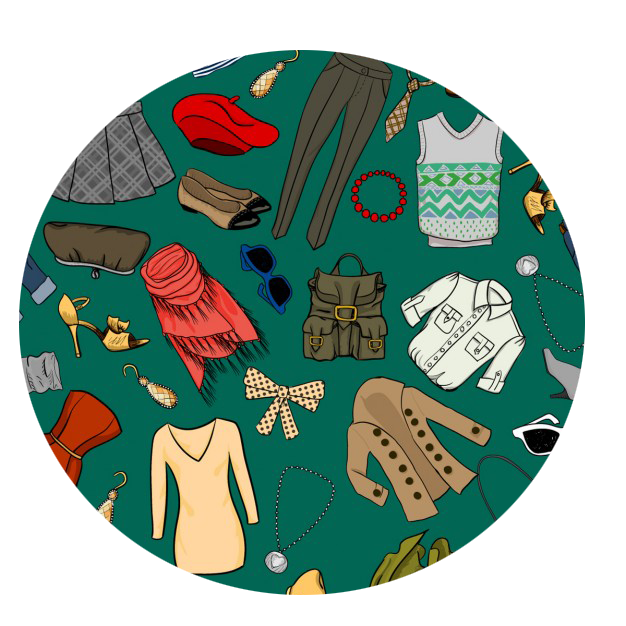
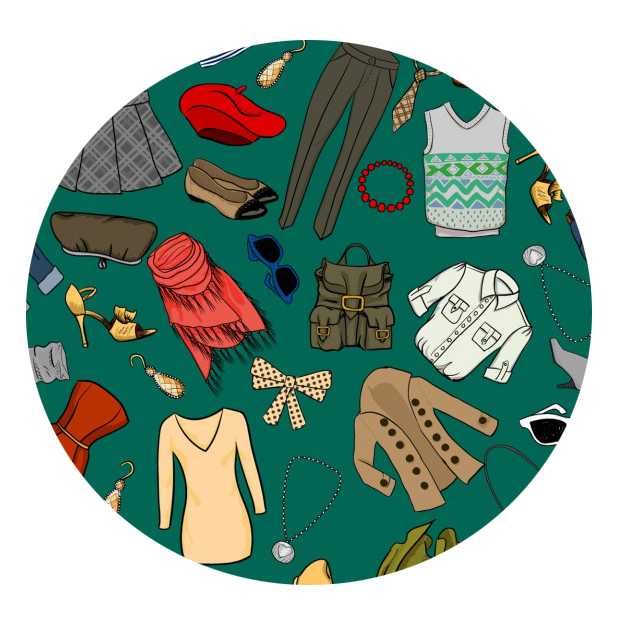
Mejora de Imagenes

diff --git a/lib/src/pages/home_page.dart b/lib/src/pages/home_page.dart
@@ -8,67 +8,71 @@ class Home extends StatelessWidget {
       body: Container(
         decoration: BoxDecoration(
             image: DecorationImage(
-                image: AssetImage("assets/inicio.jpg"), fit: BoxFit.cover)),
+                image: AssetImage("assets/inicio/home_principal.png"),
+                fit: BoxFit.fill)),
         child: Column(
-          mainAxisAlignment: MainAxisAlignment.center,
+          mainAxisAlignment: MainAxisAlignment.start,
           children: <Widget>[
-            Center(
-                child: Column(
-              mainAxisAlignment: MainAxisAlignment.center,
-              children: <Widget>[
-                Text(
-                  "¿ MBA'E ?",
-                  style: TextStyle(
-                    fontSize: 50.0,
-                    fontFamily: "HeyAugust",
-                    color: Colors.redAccent,
-                  ),
-                ),
-                Padding(padding: EdgeInsets.all(35.0)),
-                Row(
-                  mainAxisAlignment: MainAxisAlignment.center,
-                  //crossAxisAlignment: CrossAxisAlignment.start,
-                  children: <Widget>[
-                    //Boton de Jugar
-                    RaisedButton(
+            Padding(
+              padding: const EdgeInsets.all(75.0),
+              child: Center(
+                  child: Column(
+                children: <Widget>[
+                  Text(
+                    "¿ MBA'E ?",
+                    style: TextStyle(
+                      fontSize: 50.0,
+                      fontFamily: "HeyAugust",
                       color: Colors.redAccent,
-                      textColor: Colors.white,
-                      child: Text(
-                        "Jugar",
-                        style: TextStyle(
-                          fontSize: 25.0,
-                          fontFamily: "HeyAugust",
-                        ),
-                      ),
-                      onPressed: () {
-                        print("Boton de Jugar Presionado");
-                        Navigator.pushReplacementNamed(context, 'preparacion');
-                      },
-                      splashColor: Colors.white,
                     ),
-                    //Espacion entre ellos de 20 pixeles
-                    Padding(padding: EdgeInsets.all(20.0)),
-                    //Boton de Intrucciones
-                    RaisedButton(
-                      child: Text(
-                        "Instrucciones",
-                        style: TextStyle(
-                          fontSize: 25.0,
-                          fontFamily: "HeyAugust",
+                  ),
+                  Padding(padding: EdgeInsets.symmetric(vertical: 20.0)),
+                  Row(
+                    mainAxisAlignment: MainAxisAlignment.center,
+                    //crossAxisAlignment: CrossAxisAlignment.start,
+                    children: <Widget>[
+                      //Boton de Jugar
+                      RaisedButton(
+                        color: Colors.redAccent,
+                        textColor: Colors.white,
+                        child: Text(
+                          "Jugar",
+                          style: TextStyle(
+                            fontSize: 25.0,
+                            fontFamily: "HeyAugust",
+                          ),
                         ),
+                        onPressed: () {
+                          print("Boton de Jugar Presionado");
+                          Navigator.pushReplacementNamed(
+                              context, 'preparacion');
+                        },
+                        splashColor: Colors.white,
                       ),
-                      color: Colors.redAccent,
-                      textColor: Colors.white,
-                      onPressed: () {
-                        print("Boton de Instrucciones Presionado");
-                        Navigator.pushNamed(context, 'instrucciones');
-                      },
-                      splashColor: Colors.white,
-                    )
-                  ],
-                ),
-              ],
-            )),
+                      //Espacion entre ellos de 20 pixeles
+                      Padding(padding: EdgeInsets.all(20.0)),
+                      //Boton de Intrucciones
+                      RaisedButton(
+                        child: Text(
+                          "Instrucciones",
+                          style: TextStyle(
+                            fontSize: 25.0,
+                            fontFamily: "HeyAugust",
+                          ),
+                        ),
+                        color: Colors.redAccent,
+                        textColor: Colors.white,
+                        onPressed: () {
+                          print("Boton de Instrucciones Presionado");
+                          Navigator.pushNamed(context, 'instrucciones');
+                        },
+                        splashColor: Colors.white,
+                      )
+                    ],
+                  ),
+                ],
+              )),
+            ),
           ],
         ),
       ),
